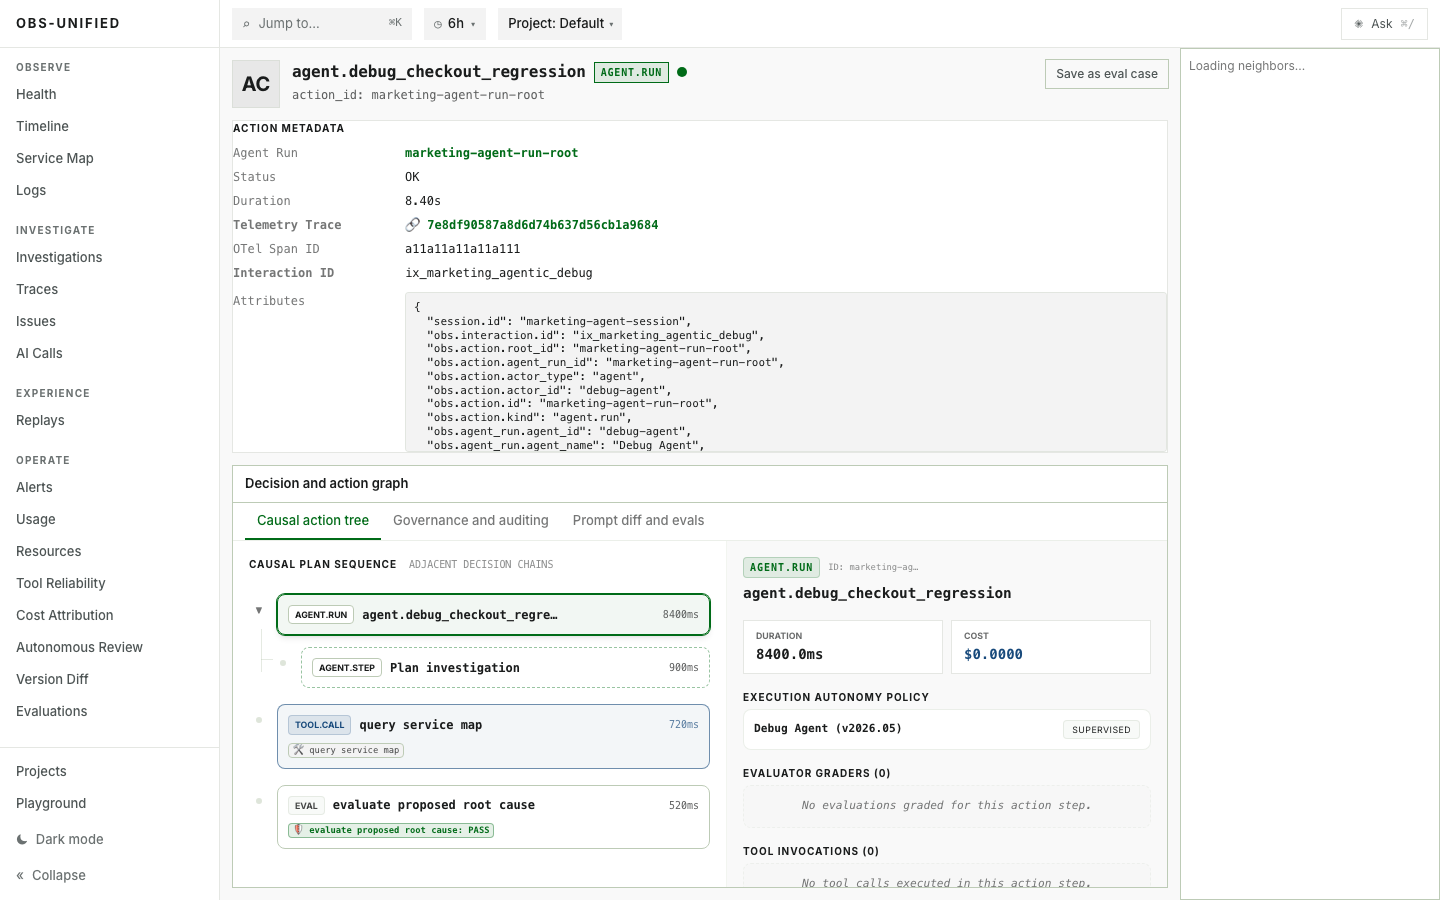
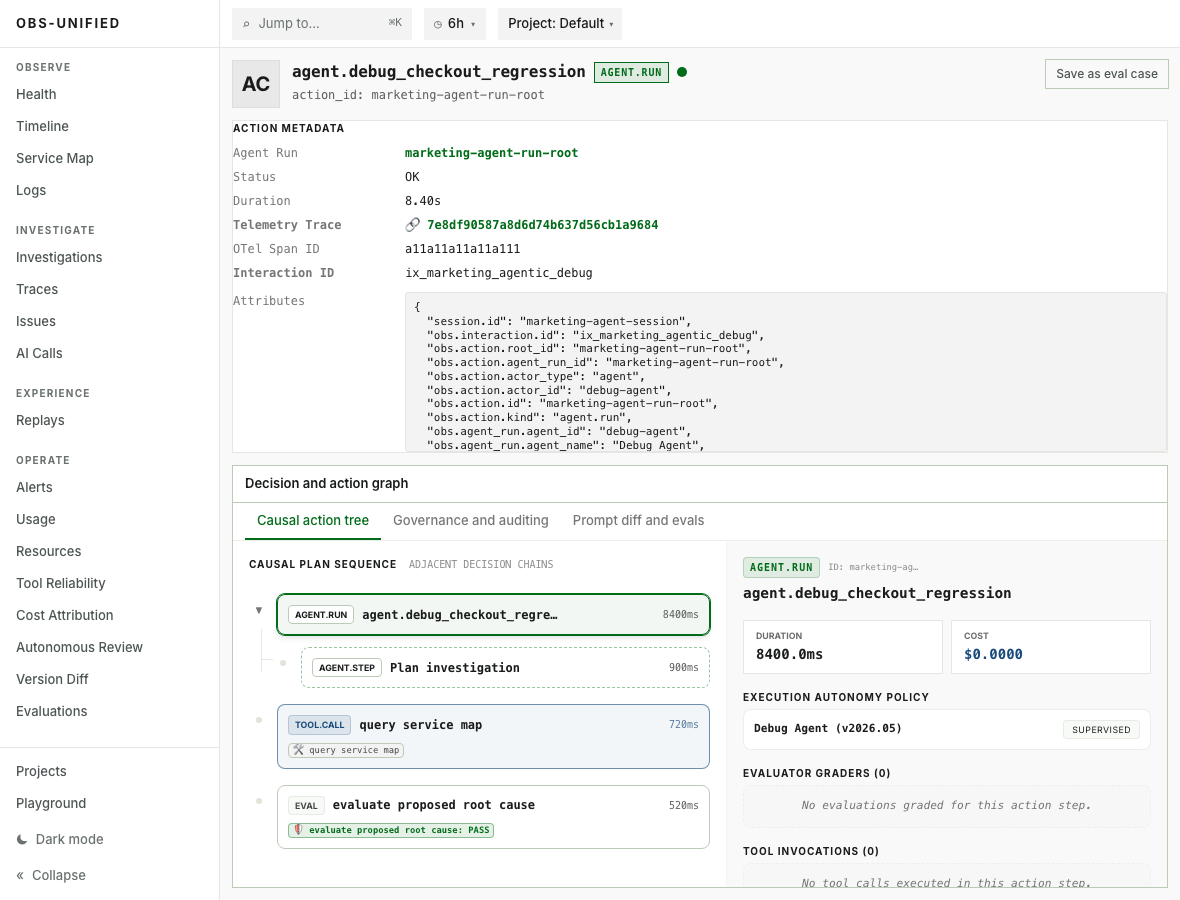
Fix hero action graph screenshot (#4)

diff --git a/src/sections/hero.ts b/src/sections/hero.ts
@@ -44,7 +44,7 @@ export function renderHero(): string {
     </div>
     <figure class="hero-product-shot">
       <div class="hero-shot-frame">
-        <img src="/screenshots/app/agent-action-graph.png" alt="Observability Unified dashboard showing an agent action graph connected to traces, logs, replay, AI costs, and CPU profile evidence" width="1440" height="1000" />
+        <img src="/screenshots/app/agent-action-graph.png" alt="Observability Unified dashboard showing an agent action graph connected to traces, logs, replay, AI costs, and CPU profile evidence" width="1180" height="900" />
       </div>
       <figcaption>
         <span>Agent Action Graph</span>

diff --git a/src/sections/screenshots.ts b/src/sections/screenshots.ts
@@ -48,7 +48,7 @@ export function renderScreenshots() {
                 (shot) => `
                   <figure class="screenshot-card">
                     <div class="screenshot-frame">
-                      <img src="${shot.src}" alt="${shot.title} in the Observability Unified dashboard" loading="lazy" width="1440" height="1000" />
+                      <img src="${shot.src}" alt="${shot.title} in the Observability Unified dashboard" loading="lazy" width="${shot.src.includes("agent-action-graph") ? "1180" : "1440"}" height="900" />
                     </div>
                     <figcaption>
                       <span>${shot.title}</span>
